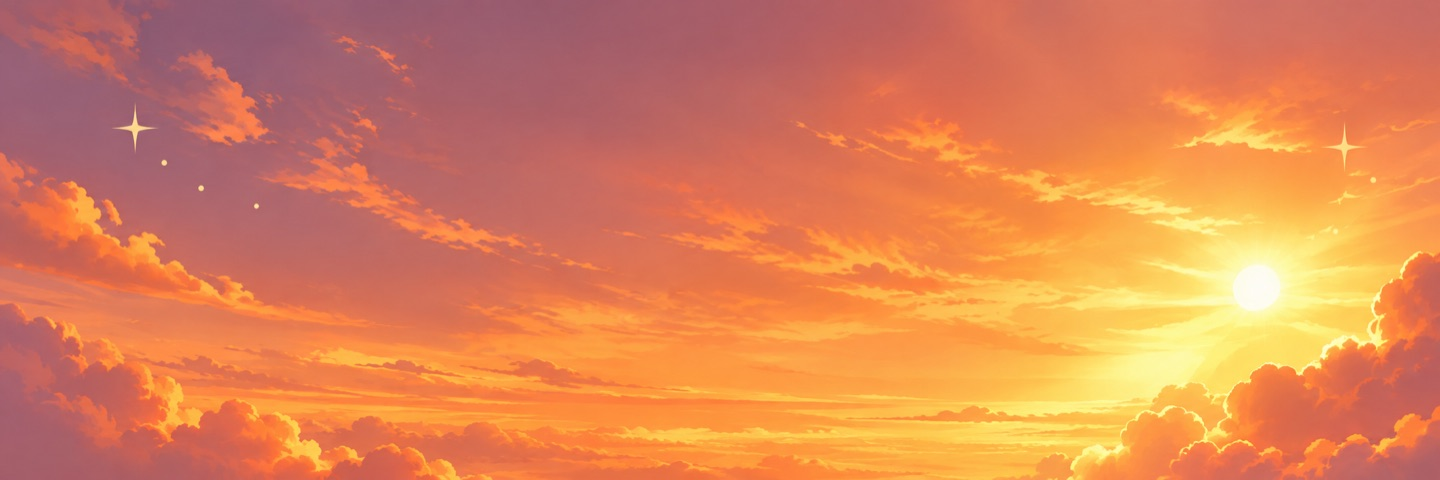
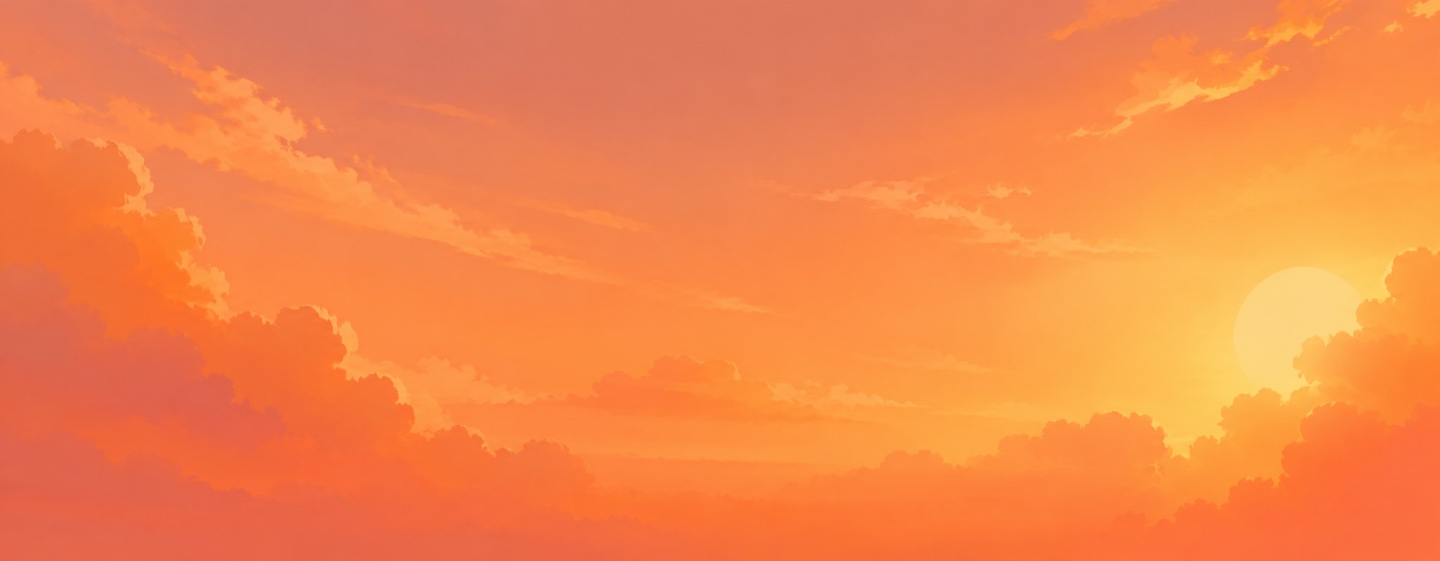
feat(user): 페이지 헤더를 피그마대로 76 높이에 새 노을 이미지를 가운데 기준으로 깔고 제목을 세로 가운데에 둔다

diff --git a/apps/user/shared/header/PageHeader.tsx b/apps/user/shared/header/PageHeader.tsx
@@ -7,18 +7,17 @@ import headerSky from './images/header-sky.jpg'
 export function PageHeader({ title }: { title: string }) {
   return (
     <header
-      className={`${kimjungchulMyungjo.variable} relative flex h-24 items-center justify-center overflow-hidden`}
+      className={`${kimjungchulMyungjo.variable} relative flex h-19 items-center justify-center overflow-hidden`}
     >
-      {/* 오른쪽 해가 잘리지 않게 아래 기준으로 자른다 */}
       <Image
         src={headerSky}
         alt=""
         fill
         priority
         sizes="(max-width: 480px) 100vw, 480px"
-        className="object-cover object-bottom"
+        className="object-cover"
       />
-      <div className="relative mt-[11px] flex flex-col items-center drop-shadow-[0_2px_2px_rgb(0_0_0/0.25)]">
+      <div className="relative flex flex-col items-center drop-shadow-[0_2px_2px_rgb(0_0_0/0.25)]">
         <div className="-mb-[3px]">
           <SparkleOrnament axis="horizontal" size="sm" />
         </div>
